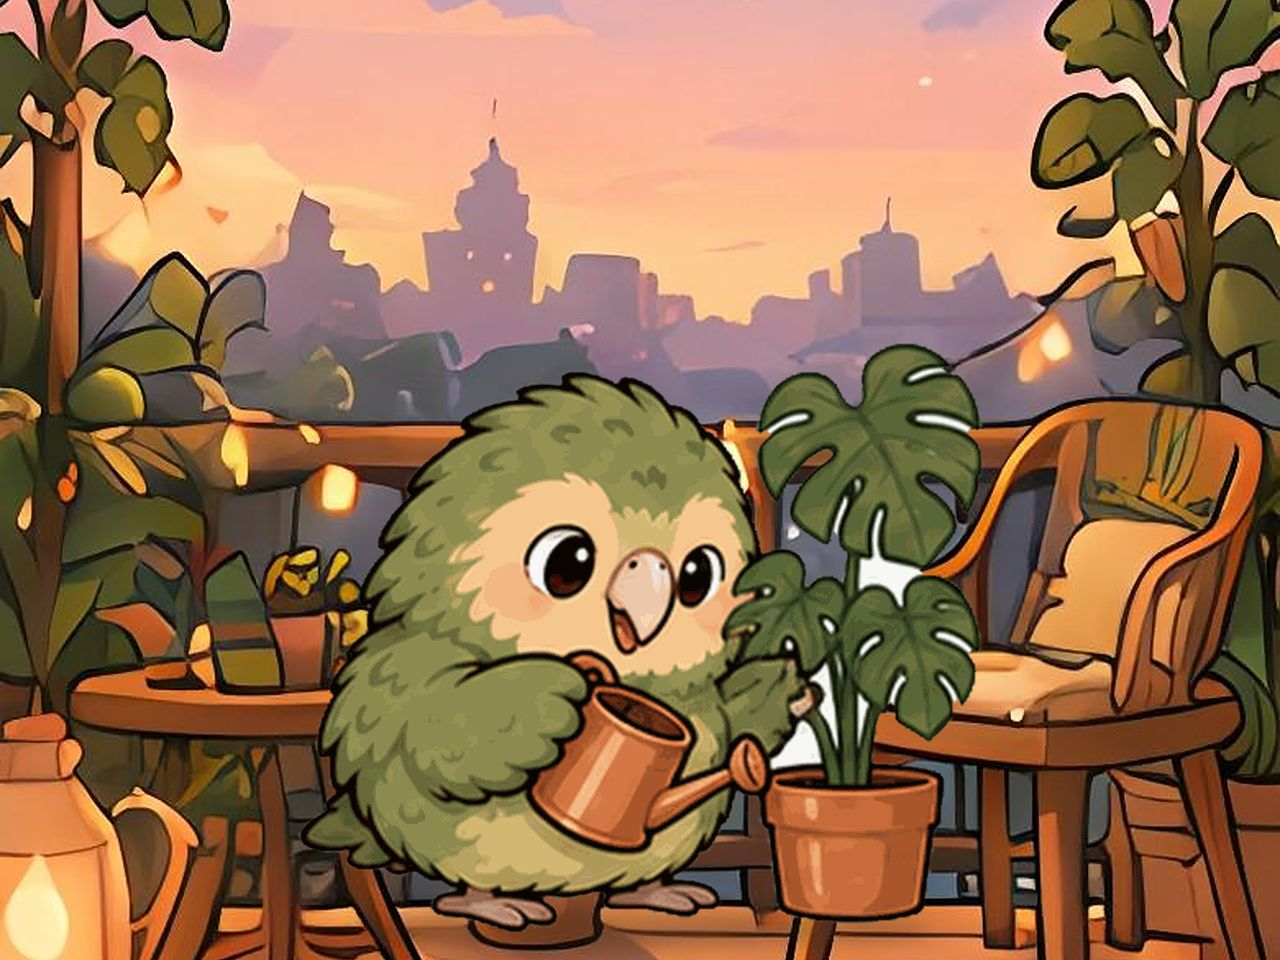
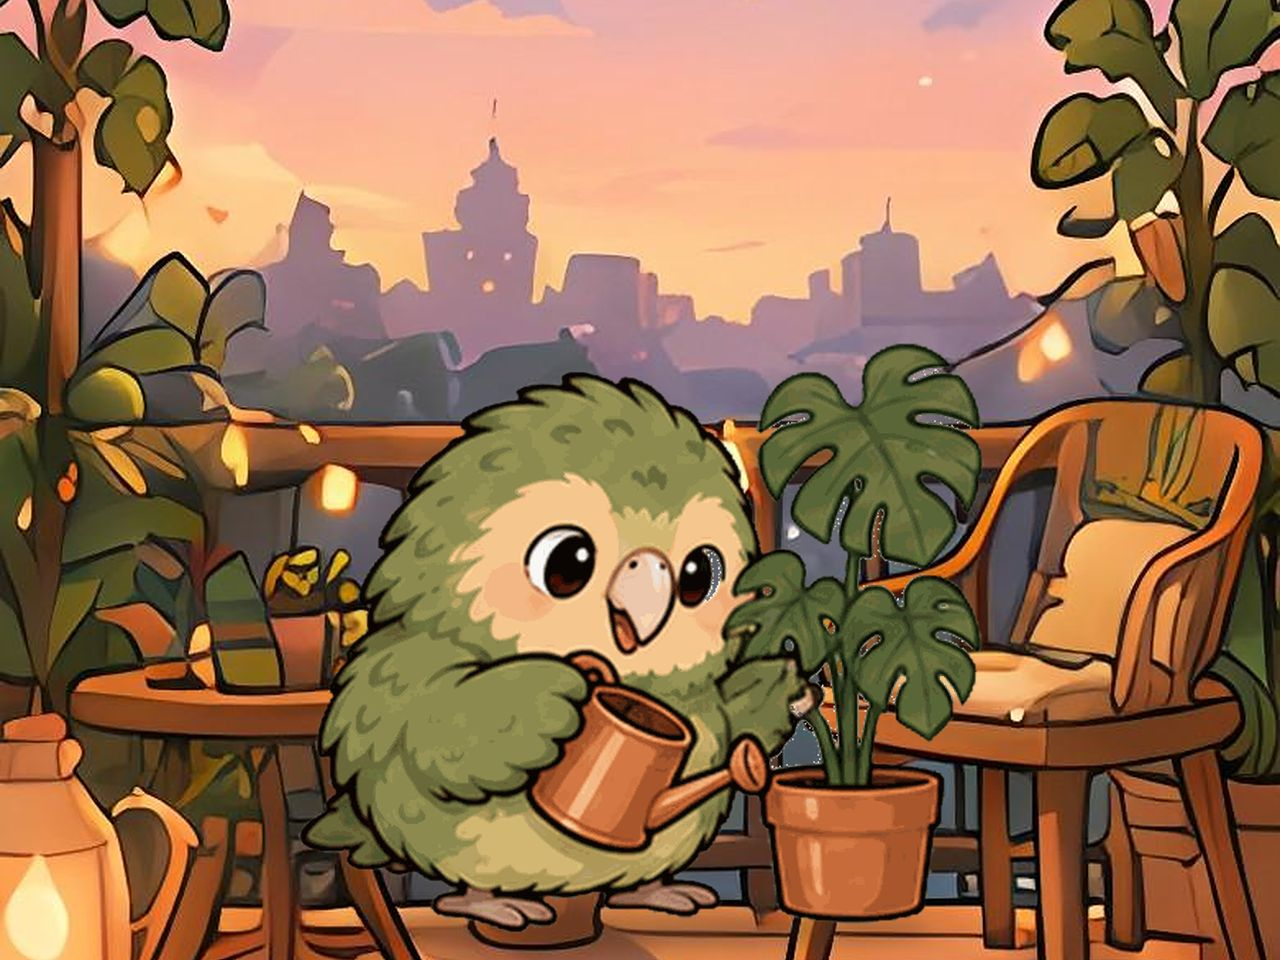
moka_watering: yaprak aralarındaki mavi/beyaz artıklar temizlendi, sahneler yenilendi
Claude-Session: https://claude.ai/code/session_01SaDd7ahQaxgKQRwDni4kW9

diff --git a/scripts/clean-moka-watering.py b/scripts/clean-moka-watering.py
@@ -1,20 +1,28 @@
-"""moka_watering: bitki çevresindeki açık mavi/beyaz artıkları siler (assets-src PNG yerinde), sonra WebP üretir."""
+"""moka_watering: bitki çevresindeki/yaprak aralarındaki açık mavi/beyaz artıkları siler (assets-src PNG yerinde),
+WebP üretir. Sonra sahneyi yenile: python3 scripts/make-scenes.py build"""
 import numpy as np
 from PIL import Image
 from scipy import ndimage as nd
 src = 'assets-src/moka/moka_watering.png'
 a = np.array(Image.open(src).convert('RGBA')).astype(int)
 r, g, b, al = a[..., 0], a[..., 1], a[..., 2], a[..., 3]
-light = (al > 0) & (np.minimum(np.minimum(r, g), b) > 170) & (b >= r - 12)
-light[:, :int(a.shape[1] * 0.58)] = False
-lab, n = nd.label(light)
+h, w = al.shape
+mn, mx = np.minimum(np.minimum(r, g), b), np.maximum(np.maximum(r, g), b)
+# açık + düşük doygunluk (beyaz / açık mavi / gri); yaprak parlaması yeşil olduğu için elenmez
+light = (al > 0) & (mn > 135) & ((mx - mn) < 70) & (b >= r - 15)
+zone = np.zeros_like(light); zone[:int(h * 0.85), int(w * 0.58):] = True   # bitki bölgesi
+cut = light & zone
+# artıkların 1 px çevresindeki yarı-açık kenar halesi de gitsin
+cut = nd.binary_dilation(cut, iterations=1) & (mn > 110) & (al > 0) & zone
+lab, n = nd.label(cut)
 for i in range(1, n + 1):
-    if (lab == i).sum() >= 6:
+    if (lab == i).sum() >= 3:
         a[lab == i, 3] = 0
+# dış kenar halesi
 al2 = a[..., 3] > 0
 edge = al2 & ~nd.binary_erosion(al2)
 fr = edge & (np.minimum(np.minimum(a[..., 0], a[..., 1]), a[..., 2]) > 140) & (a[..., 2] >= a[..., 0] - 12)
-fr[:, :int(a.shape[1] * 0.58)] = False
+fr[:, :int(w * 0.58)] = False
 a[fr, 3] = 0
 im = Image.fromarray(a.astype(np.uint8), 'RGBA')
 im.save(src, optimize=True)
